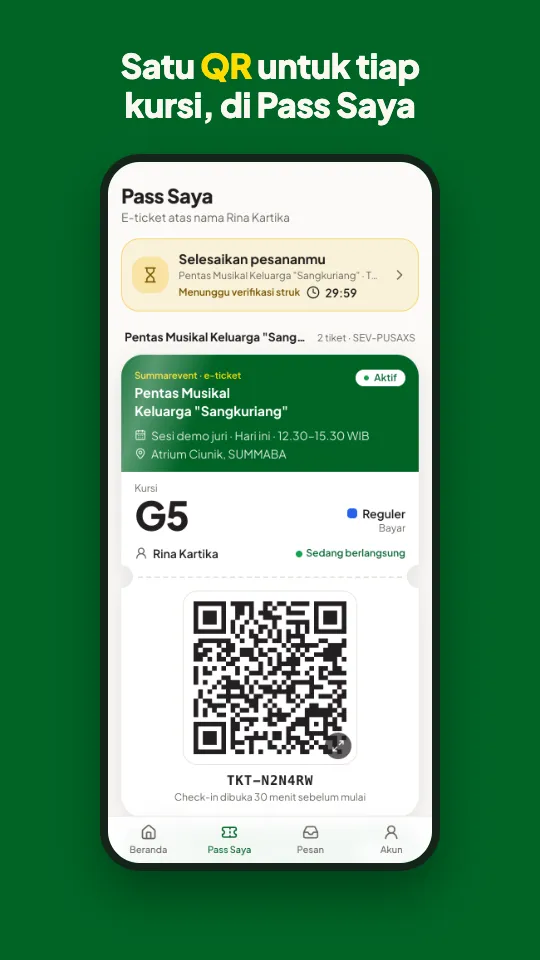
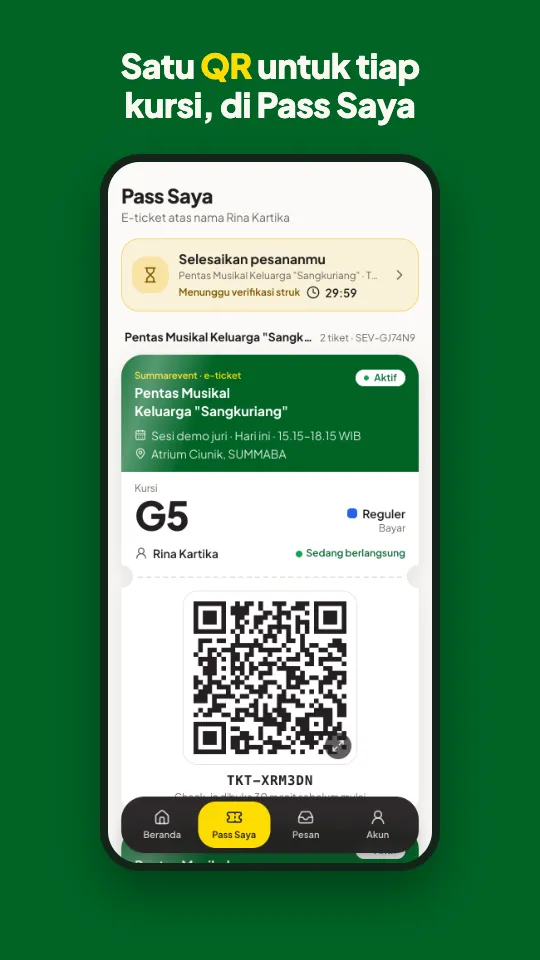
docs: README dan panduan e2e memuat sambutan baru, kredit fun-isometric
Fitur mencatat splash, pengenalan, Masuk dan Daftar, serta ilustrasi bergerak. Langkah
"Coba dalam dua menit" menyebut pengenalan, gerbang mutu mencatat suite onboarding dan a11y
36 layar, dan bagian Tim mencantumkan kredit kit ilustrasinya. Gambar promo Pass Saya
diperbarui dengan navigasi baru.

Changed region(s): [[0.2074, 0.625, 0.8, 0.9062], [0.5926, 0.3438, 0.7704, 0.375], [0.5333, 0.4375, 0.6815, 0.4688]]

diff --git a/README.md b/README.md
@@ -47,11 +47,12 @@ Hari ini, masuk ke event SUMMABA bisa lewat banyak jalan: tiket di platform luar
 - **Panitia.** Wizard event (info, kategori, denah dari template, sesi, publish), peta kursi live, pesanan dan peserta, verifikasi struk, dashboard penjualan dan kehadiran, unduh CSV, akun petugas, serta link dan poster QR untuk dibagikan.
 - **Petugas.** Hasil scan Valid, Sudah digunakan, atau Tidak valid yang terbaca dari 1 meter, dengan bunyi dan getar berbeda. Ada cari tiket manual, check-in rombongan, dan verifikasi struk kertas di desk.
 - **Daftar tunggu dan bonus.** Kategori yang habis menawarkan daftar tunggu dengan kabar otomatis, dan N pembeli pertama bisa mendapat bonus.
+- **Sambutan yang bergerak.** Splash menghidupkan logo Lorong: dua bloknya mengunci, lalu satu titik menyusuri lorong S. Splash muncul sekali per sesi dan bisa diketuk untuk dilewati. Pengunjung baru melihat pengenalan tiga langkah, lalu bisa **Masuk** atau **Daftar** dengan OTP simulasi yang bisa diisi otomatis. Ilustrasi isometrik bergerak mengisi layar kosong dan momen sukses. Semua gerak berhenti kalau HP diatur untuk mengurangi gerakan, dan splash tidak pernah muncul di layar panitia dan petugas.
 - **PWA.** Bisa dipasang di layar utama, dengan notifikasi perangkat selama app terbuka.
 
 ## Coba dalam dua menit
 
-1. Buka [summarevent.vercel.app](https://summarevent.vercel.app), pilih **Pengunjung**, lalu *Pentas Musikal Keluarga "Sangkuriang"* sesi 16.00.
+1. Buka [summarevent.vercel.app](https://summarevent.vercel.app), pilih **Pengunjung**, ikuti atau **Lewati** pengenalan tiga langkah, lalu pilih *Pentas Musikal Keluarga "Sangkuriang"* sesi 16.00.
 2. Pilih **Reguler**, ketuk **Pilihkan 2 kursi berdampingan**, lalu **Hayu ngiring**. Kursinya ditahan 10 menit.
 3. Masuk dengan nomor HP apa saja (kode OTP tampil di layar), lalu **Simulasikan bayar berhasil**. E-ticket muncul di **Pass Saya**.
 4. Kembali ke denah dan tekan **Uji rebutan kursi**: pembeli simulasi menang sepersekian detik lebih dulu, dan kamu ditawari kursi terdekat.
@@ -137,8 +138,8 @@ summarevent/
 | --- | --- |
 | **Web** (CI) | Typecheck, lint, unit test, dan build produksi di setiap PR dan push ke `main`. |
 | **No AI attribution** (CI dan hook) | Menolak atribusi AI di commit dan PR. Juga dicek hook `commit-msg` dan `pre-push` ([aturannya](AGENTS.md#1-tanpa-atribusi-ai)). |
-| **End-to-end** (lokal) | Alur nyata di Chrome: bayar, tukar struk, gratis, rebutan kursi, waktu habis, daftar tunggu, refund, OCR, periode jual, panitia di laptop dan HP, wizard, dan petugas sampai pengunjung melihat "Hatur nuhun!". Suite gagal kalau hasilnya salah, ada error di console, atau layar bisa digeser ke samping. |
-| **Aksesibilitas** (lokal) | axe-core memeriksa WCAG 2.1 AA di 30 layar ketiga peran, termasuk menu, dialog, dan form. Di HP 360 px setiap target sentuh minimal 44 px, kursi diukur setelah zoom. |
+| **End-to-end** (lokal) | Alur nyata di Chrome: splash dan pengenalan pengunjung baru, daftar akun, bayar, tukar struk, gratis, rebutan kursi, waktu habis, daftar tunggu, refund, OCR, periode jual, panitia di laptop dan HP, wizard, dan petugas sampai pengunjung melihat "Hatur nuhun!". Suite gagal kalau hasilnya salah, ada error di console, atau layar bisa digeser ke samping. |
+| **Aksesibilitas** (lokal) | axe-core memeriksa WCAG 2.1 AA di 36 layar ketiga peran, termasuk pengenalan, masuk, daftar, menu, dialog, dan form. Di HP 360 px setiap target sentuh minimal 44 px, kursi diukur setelah zoom. |
 
 Perilaku baru disertai test: aturan di unit test, alur pengguna di end-to-end. Tampilan dicek di HP 360 px sampai desktop.
 
@@ -173,3 +174,5 @@ Diagram dibuat dengan [Archify](https://github.com/tt-a1i/archify) 3.2 (MIT, [li
 ## Tim
 
 Dibuat di Bandung oleh Tim Summarevent: **Haikal** (frontend & lead teknis), **Bintang** (backend), **Shelvia** (user testing & UX), **Awwal** (product, business & pitch), dan **Said** (system QA). Logo dan aturan pakainya ada di [`docs/brand`](docs/brand/README.md).
+
+Ilustrasi bergerak memakai kit [fun-isometric](https://skills.klvn.dev/fun-isometric) karya Kelvin Adithya (MIT, [lisensi](docs/lisensi/fun-isometric-MIT.txt)), digambar dengan palet Summarecon.

diff --git a/frontend/e2e/README.md b/frontend/e2e/README.md
@@ -13,12 +13,13 @@ BASE=https://summarevent.vercel.app npm run e2e   # uji hasil deploy
 
 | Suite | Yang diuji |
 | --- | --- |
+| `onboarding.mjs` | Kunjungan pertama: splash muncul sekali per sesi lalu hilang sendiri, pengenalan tiga langkah, daftar akun dengan OTP simulasi sampai Beranda menampilkan akunnya. Splash tidak muncul di halaman panitia, dan dengan reduced motion hilang dalam 2 detik. Suite lain mulai dari setelah pengenalan (`skip-intro.mjs`) |
 | `visitor.mjs` | Bayar (gagal lalu berhasil) sampai 2 e-ticket di Pass Saya, tukar struk, Festival gratis, uji rebutan kursi + saran kursi, penjelasan pesan dobel, waktu habis, daftar tunggu, ubah nama + batal + refund, bonus, baca struk otomatis (OCR, butuh internet untuk model) |
 | `admin.mjs` | Setujui struk, minta revisi, tandai lunas, unduh 2 CSV (cek BOM dan isi), peta kursi live, layar laptop dan HP |
 | `wizard.mjs` | Buat event bernomor kursi (2 kategori, preset tukar struk, denah 6×10, 1 kursi diblokir, 2 sesi), publish, buka di app pengunjung. Kategori yang penjualannya baru dibuka 3 hari lagi menonaktifkan Hayu ngiring dan menyebut tanggalnya (QA-11) |
 | `staff.mjs` | Valid, Sudah digunakan, Tidak valid, Sesi lain, Di luar jam check-in, cari manual, check-in rombongan, fallback kamera. Setelah tiketnya dipindai, Pass Saya Rina menampilkan "Hatur nuhun!" |
 | `staff-admin-p1.mjs` | Panitia menambah dan menonaktifkan akun petugas, petugas menyetujui struk di desk, ganti akun petugas |
-| `a11y.mjs` | axe-core (WCAG 2.1 A + AA) di 30 layar ketiga peran, termasuk menu demo, form struk, hasil scan, wizard, dan panel struk. Di HP 360 px setiap target sentuh minimal 44 px, kursi diukur setelah denah di-zoom |
+| `a11y.mjs` | axe-core (WCAG 2.1 A + AA) di 36 layar ketiga peran, termasuk pengenalan, masuk dan daftar (juga langkah OTP), halaman 404, menu demo, form struk, hasil scan, wizard, dan panel struk. Di HP 360 px setiap target sentuh minimal 44 px, kursi diukur setelah denah di-zoom |
 | `offline.mjs` | Khusus backend (`API_URL`): sinyal putus, scan tetap jalan dari daftar tiket di HP, antrean terkirim saat online, tiket yang lebih dulu dipindai pintu lain muncul sebagai konflik |
 
 ## Dengan backend
